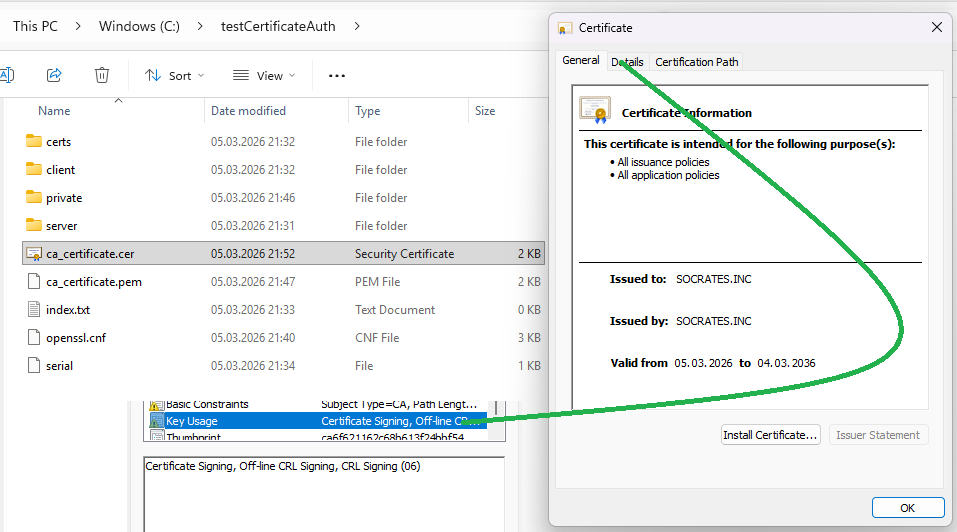
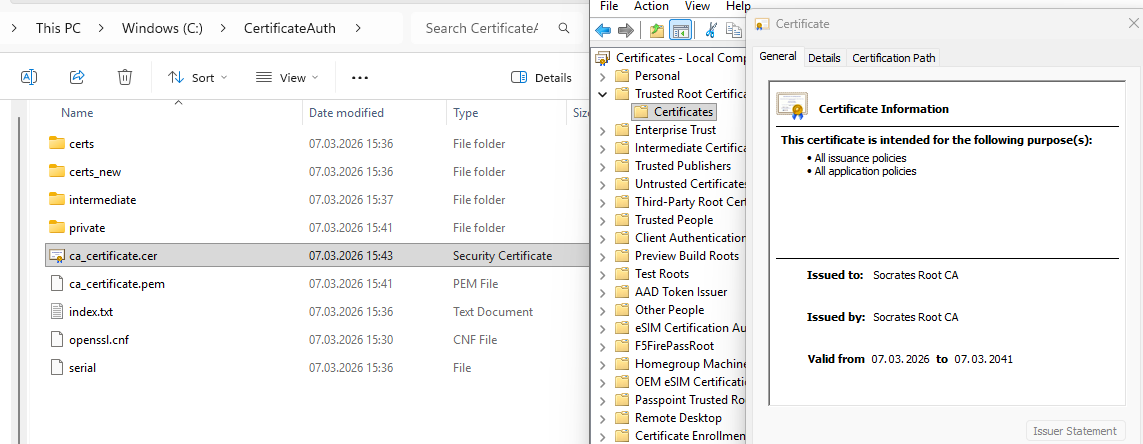
pki

diff --git a/pki_store/README.md b/pki_store/README.md
@@ -33,16 +33,41 @@ https://github.com/spawnmarvel/quickguides/tree/main/securityPKI-CA
 
 ```cmd
 
-mkdir c:\testCertificateAuth
-mkdir c:\testCertificateAuth\server
-mkdir c:\testCertificateAuth\certs
-mkdir c:\testCertificateAuth\private
+:: Create Root folders
+mkdir C:\CertificateAuth\private
+mkdir C:\CertificateAuth\certs
+mkdir C:\CertificateAuth\certs_new
+type nul > C:\CertificateAuth\index.txt
+echo 1000 > C:\CertificateAuth\serial
 
-type NUL > c:\testCertificateAuth\index.txt
-echo 1000 > c:\testCertificateAuth\serial
+:: Create Intermediate folders
+mkdir C:\CertificateAuth\intermediate
+mkdir C:\CertificateAuth\intermediate\private
+mkdir C:\CertificateAuth\intermediate\certs
+type nul > C:\CertificateAuth\intermediate\index.txt
+echo 1000 > C:\CertificateAuth\intermediate\serial
+
 ```
 
-Make the openssl.cnf and paste the content in it
+Folder Definitions
+
+* C:\CertificateAuth\: The root directory containing your master Root CA configuration, database, and serial tracking.
+* C:\CertificateAuth\private\: The highly sensitive directory storing the Root CA's private key; access should be strictly limited.
+* C:\CertificateAuth\certs\: A manual storage folder for organizing signed certificates or public CA certificates.
+* C:\CertificateAuth\certs_new\: The automated archive where OpenSSL saves a copy of every certificate issued by the Root CA, named by serial number.
+* C:\CertificateAuth\intermediate\: The workspace containing the Intermediate CA’s unique private key, database, and issued certificates.
+* C:\CertificateAuth\intermediate\private\: The directory storing the Intermediate CA's private key, used for signing servers and clients.
+* C:\CertificateAuth\intermediate\certs\: The operational directory where the Intermediate CA archives certificates it has signed.
+
+File Definitions
+
+* openssl.cnf: The master configuration file defining how the Root and Intermediate CAs behave, including policies and certificate extensions.
+* index.txt: The "database" file that tracks the status (valid/revoked) of every certificate issued by that specific CA.
+* serial: A text file containing the next unique hexadecimal number to be assigned to the next certificate issued by that CA.
+* ca_private_key.pem: The Root CA's private key used to sign the Intermediate CA.
+* ca_certificate.pem: The public Root CA certificate, which acts as the trust anchor for all devices.
+* intermediate.key.pem: The Intermediate CA’s private key used for day-to-day signing operations.
+* intermediate.cert.pem: The public certificate of the Intermediate CA, which bridges the gap between the server and the Root.
 
 ## Root certificate
 
@@ -53,7 +78,7 @@ Run openssl (cmd) and create root certificate
 c:\Program Files\OpenSSL-Win64-3\OpenSSL-Win64\bin>openssl version
 OpenSSL 3.1.2 1 Aug 2023 (Library: OpenSSL 3.1.2 1 Aug 2023)
 
-openssl req -x509 -config C:\testCertificateAuth\openssl.cnf -newkey rsa:4048 -nodes -keyout C:\testCertificateAuth\private\ca_private_key.pem -out C:\testCertificateAuth\ca_certificate.pem -extensions root_ca_extensions -days 3652
+openssl req -x509 -config C:\CertificateAuth\openssl.cnf -newkey rsa:4048 -nodes -keyout C:\CertificateAuth\private\ca_private_key.pem -out C:\CertificateAuth\ca_certificate.pem -extensions root_ca_extensions -days 5479 -subj "/CN=Socrates Root CA/O=SOCRATES INC/C=NO"
 
 ```
 Press enter to keep the common name from the openssl.cnf
@@ -61,28 +86,27 @@ Press enter to keep the common name from the openssl.cnf
 Check that we have all extension
 
 ```cmd
-openssl x509 -in C:\testCertificateAuth\ca_certificate.pem -noout -text
+openssl x509 -in C:\CertificateAuth\ca_certificate.pem -noout -text
+
 ```
 
 ```log
-
-
-Certificate:
+ Certificate:
     Data:
         Version: 3 (0x2)
         Serial Number:
-            58:4b:d2:ed:77:1c:9d:79:19:b7:ba:4b:bc:5e:4d:4d:67:4a:15:b2
+            56:3b:46:f1:88:92:77:d5:49:4d:35:e9:eb:7b:99:a4:f8:5d:b7:13
         Signature Algorithm: sha256WithRSAEncryption
-        Issuer: CN = SOCRATES.INC, ST = HO, C = NO
+        Issuer: CN = Socrates Root CA, O = SOCRATES INC, C = NO
         Validity
-            Not Before: Mar  5 20:47:04 2026 GMT
-            Not After : Mar  4 20:47:04 2036 GMT
-        Subject: CN = SOCRATES.INC, ST = HO, C = NO
+            Not Before: Mar  7 14:41:23 2026 GMT
+            Not After : Mar  7 14:41:23 2041 GMT
+        Subject: CN = Socrates Root CA, O = SOCRATES INC, C = NO
         Subject Public Key Info:
             Public Key Algorithm: rsaEncryption
-                Public-Key: (4048 bit)
+                RSA Public-Key: (4048 bit)
 
- X509v3 extensions:
+        X509v3 extensions:
             X509v3 Basic Constraints: critical
                 CA:TRUE
             X509v3 Key Usage: critical
@@ -94,16 +118,16 @@ Your Root CA is officially active and correctly configured. The output you provi
 
 This is the perfect foundation for a Private PKI. Because the Basic Constraints are marked as critical, any compliant software (like a web server or browser) will know that this certificate is only allowed to act as a Certificate Authority and nothing else.
 
-You now have a "Master Key" (your C:\testCertificateAuth\private\ca_private_key.pem) that can authorize any other certificate you generate for your servers or clients.
+You now have a "Master Key" (your C:\CertificateAuth\private\ca_private_key.pem) that can authorize any other certificate you generate for your servers or clients.
 
 One vital note: Never share your ca_private_key.pem. The .cer file you just created is safe to distribute to any machine that needs to trust your new CA, but the private key must stay locked in your private folder.
 
-And the C:\testCertificateAuth\ca_certificate.pem for root certificate
+And the C:\tCertificateAuth\ca_certificate.pem for root certificate
 
 Make a .cer file also
 
 ```cmd
-openssl x509 -in C:\testCertificateAuth\ca_certificate.pem -outform DER -out C:\testCertificateAuth\ca_certificate.cer
+openssl x509 -in C:\CertificateAuth\ca_certificate.pem -outform DER -out C:\CertificateAuth\ca_certificate.cer
 ```
 
 To make it valid, import it in cert trusted root certificates.
